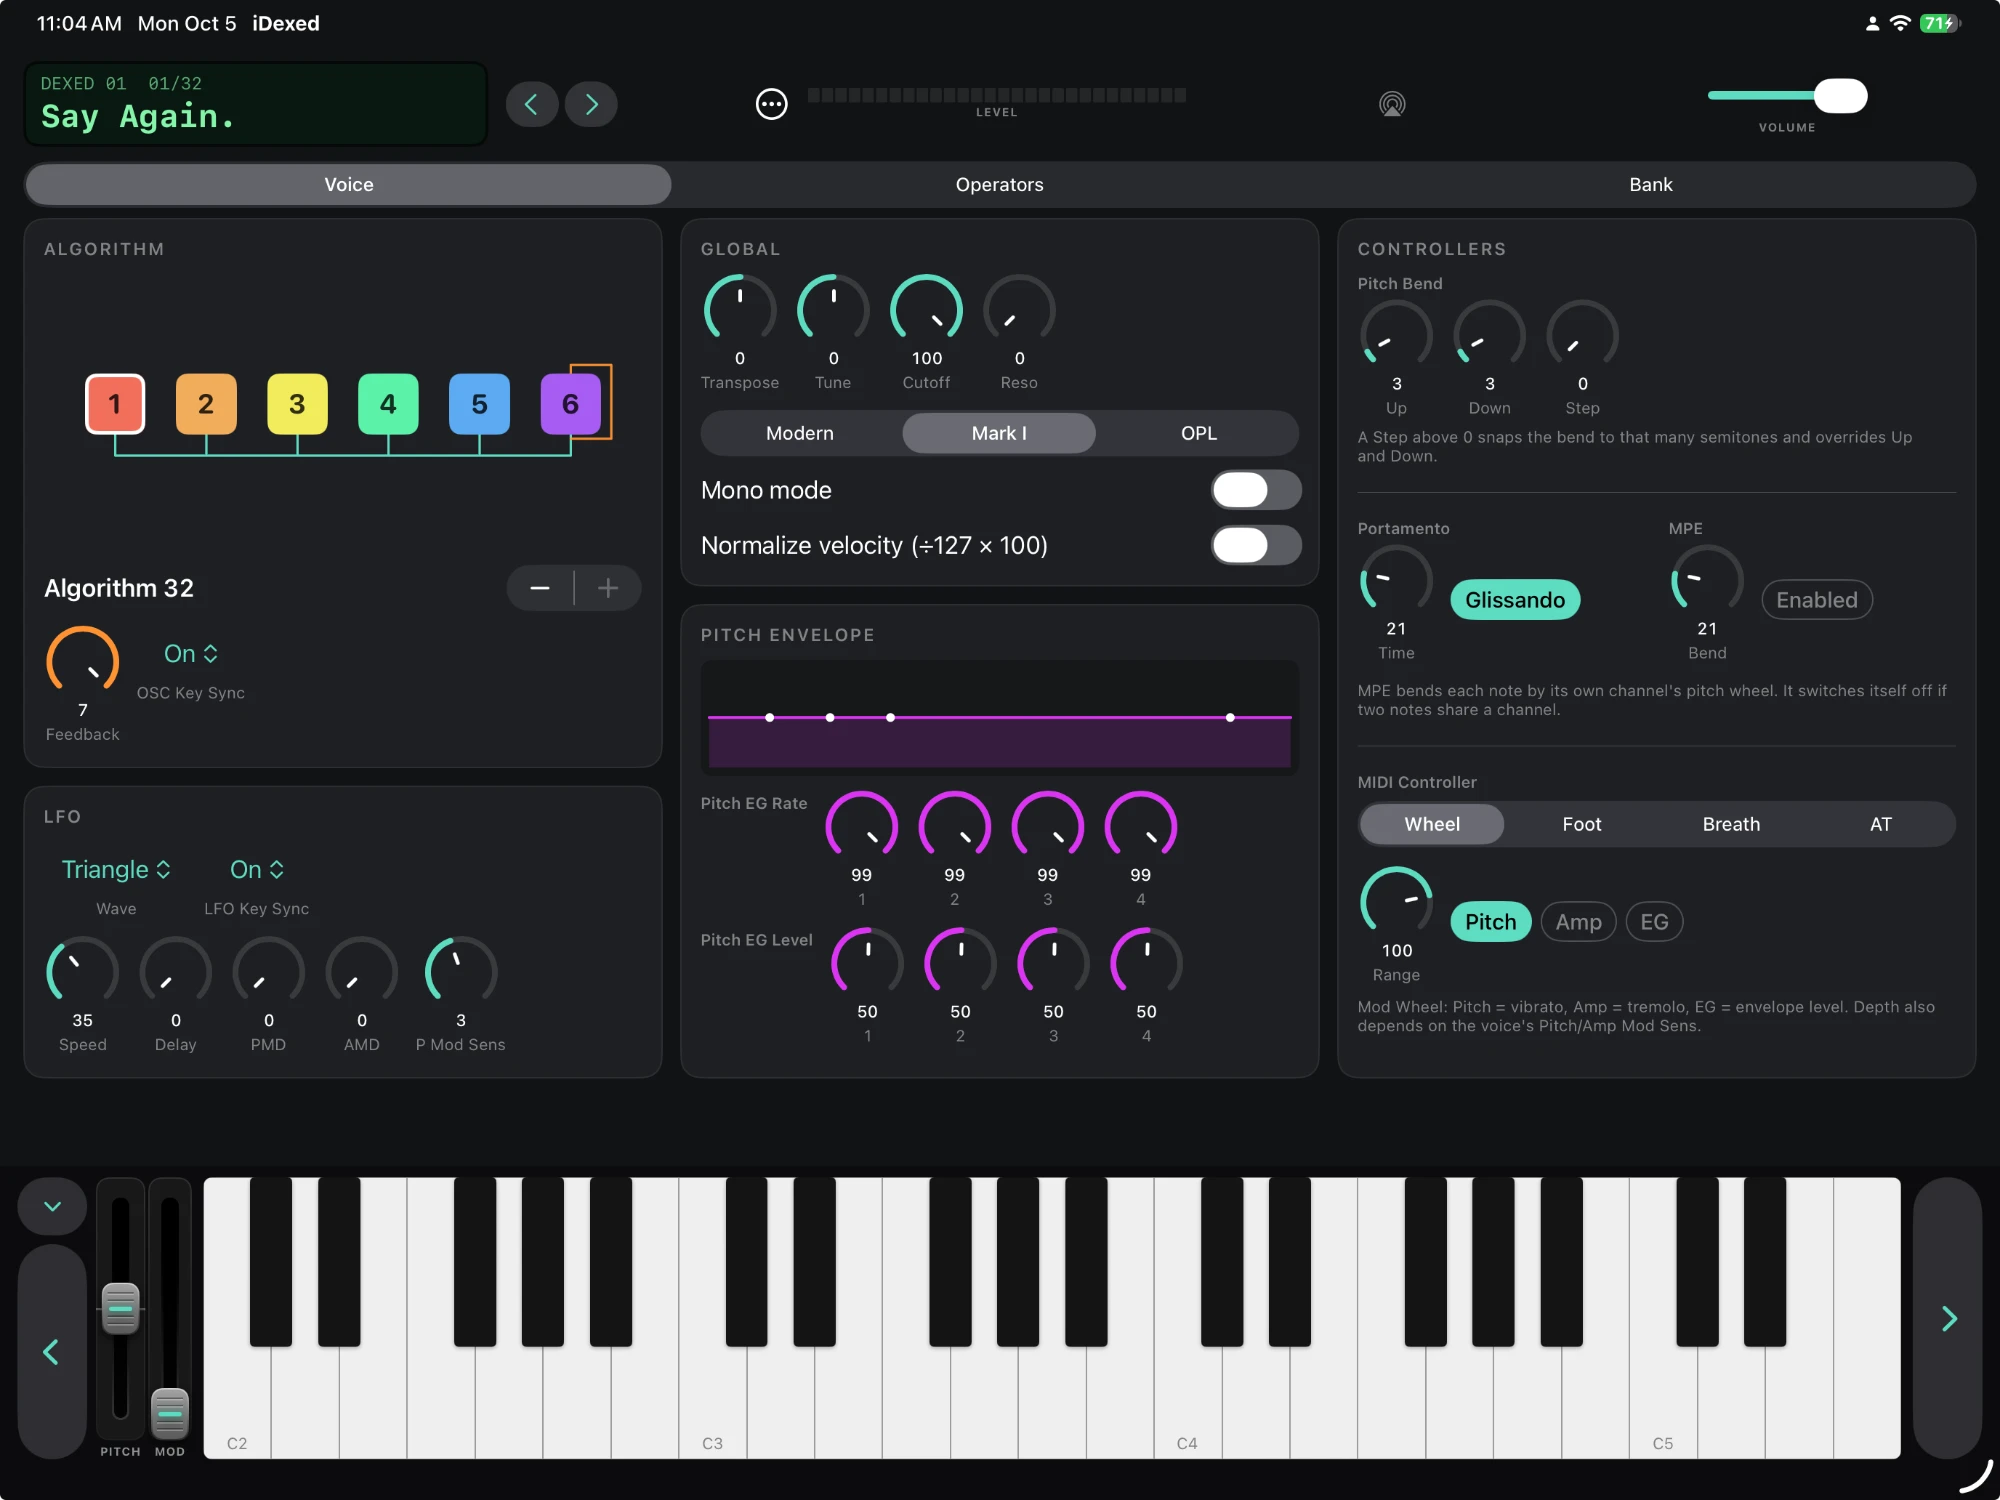
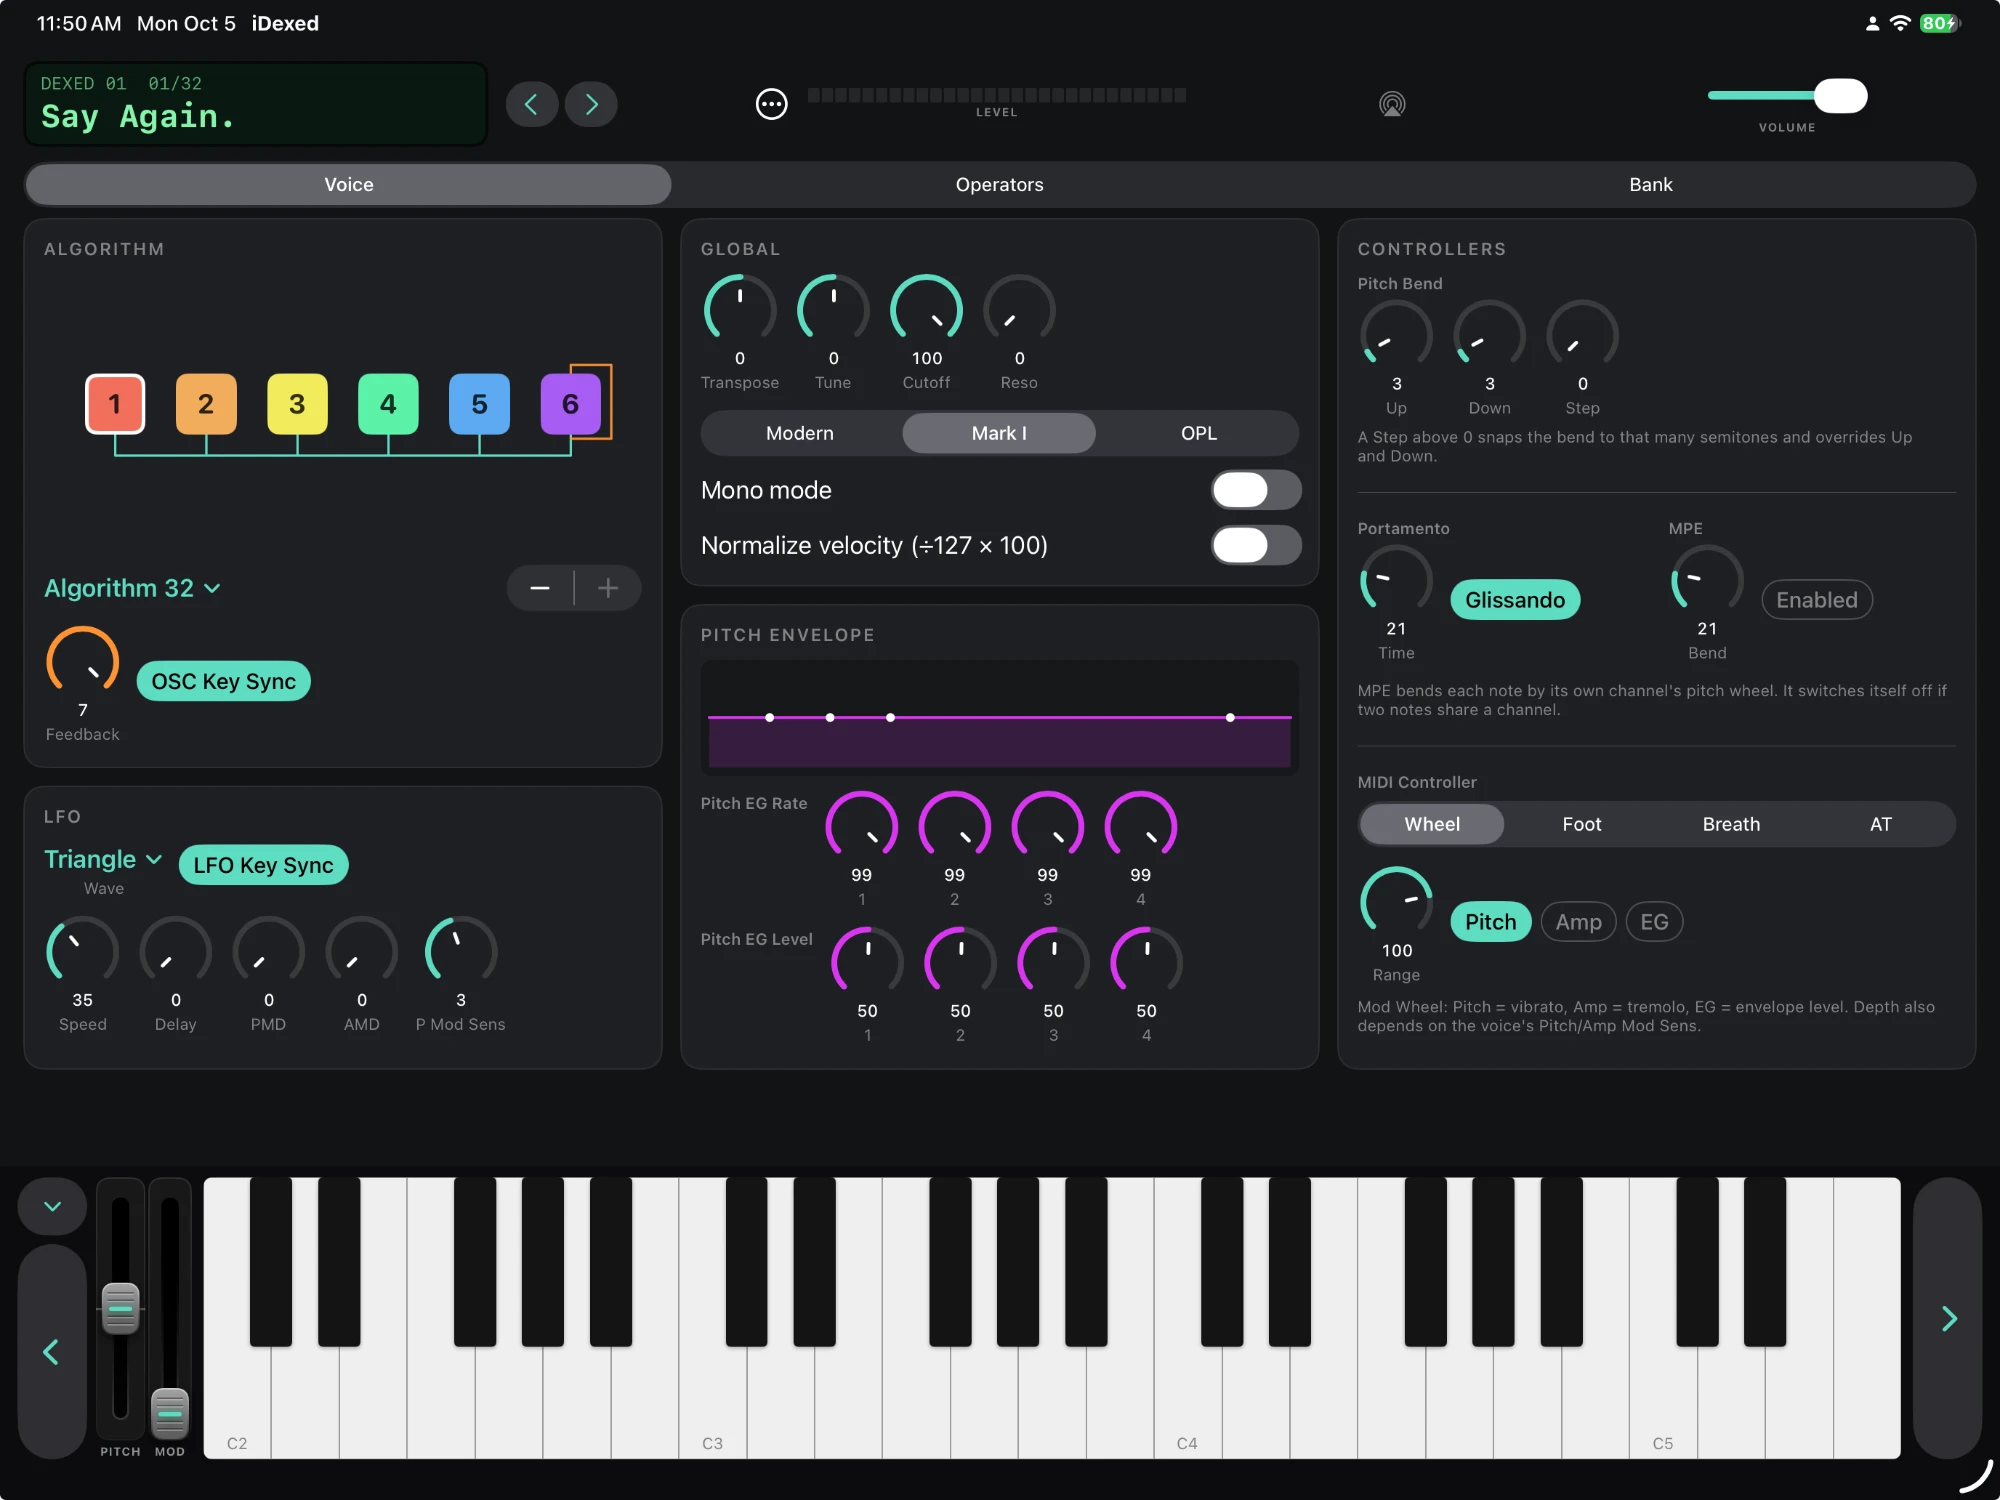
Polish controls: algorithm dropdown, toggle chips for Off/On, chevron dropdowns, taller Mac window
- Algorithm label is a dropdown listing all 32, alongside the stepper
- Off/On parameters (OSC/LFO key sync) are toggle chips
- Named-choice dropdowns and the Library bank picker share a chevron style
- Mac speaker icon sits beside the volume slider
- Mac window opens tall enough for three columns without scrolling
- Update README Voice screenshot

diff --git a/Shared/Components/ParamControls.swift b/Shared/Components/ParamControls.swift
@@ -7,19 +7,37 @@ struct ParamControl: View {
     let info: ParameterInfo
     var tint: Color = Theme.accent
     var title: String?
+    /// Space above an on/off chip so it lines up with the dials in the same row.
+    var switchInset: CGFloat = 22
 
     private var binding: Binding<Int> {
         Binding(get: { engine.patch[info.offset] }, set: { engine.setParameter(info.offset, $0) })
     }
 
+    private var isOnOff: Bool { info.max == 1 && info.labels == ["Off", "On"] }
+
     var body: some View {
-        if let labels = info.labels, info.max <= 5 {
+        if isOnOff {
+            Toggle(title ?? info.name, isOn: Binding(get: { binding.wrappedValue == 1 }, set: { binding.wrappedValue = $0 ? 1 : 0 }))
+                .toggleStyle(SwitchChipStyle())
+                .padding(.top, switchInset)
+        } else if let labels = info.labels, info.max <= 5 {
             VStack(spacing: 3) {
-                Picker(title ?? info.name, selection: binding) {
-                    ForEach(labels.indices, id: \.self) { Text(labels[$0]).tag($0) }
+                Menu {
+                    Picker(title ?? info.name, selection: binding) {
+                        ForEach(labels.indices, id: \.self) { Text(labels[$0]).tag($0) }
+                    }
+                    .pickerStyle(.inline)
+                } label: {
+                    // Same look as the Algorithm selector: the value, then a chevron that marks it as a dropdown.
+                    HStack(spacing: 5) {
+                        Text(labels[min(max(binding.wrappedValue, 0), labels.count - 1)])
+                            .font(.body.weight(.semibold))
+                        Image(systemName: "chevron.down").font(.caption.weight(.bold))
+                    }
                 }
-                .labelsHidden()
-                .pickerStyle(.menu)
+                .menuIndicator(.hidden)
+                .fixedSize()
                 .tint(tint)
                 Text(title ?? info.name).font(.caption2).foregroundStyle(Theme.dim)
             }
@@ -40,5 +58,21 @@ struct ParamRow<Content: View>: View {
                 .padding(.vertical, 2)
         }
         .scrollBounceBehavior(.basedOnSize, axes: .horizontal)
+    }
+}
+
+/// An always-visible capsule that fills with the accent colour when on, so its state is obvious at a glance.
+struct SwitchChipStyle: ToggleStyle {
+    func makeBody(configuration: Configuration) -> some View {
+        Button { configuration.isOn.toggle() } label: {
+            configuration.label
+                .font(.subheadline.weight(.medium))
+                .padding(.horizontal, 10).padding(.vertical, 5)
+                .foregroundStyle(configuration.isOn ? Color.black : Theme.dim)
+                .background(Capsule().fill(configuration.isOn ? Color.accentColor : Color.clear))
+                .overlay(Capsule().strokeBorder(configuration.isOn ? Color.clear : Theme.dim.opacity(0.5), lineWidth: 1))
+        }
+        .buttonStyle(.plain)
+        .accessibilityAddTraits(configuration.isOn ? .isSelected : [])
     }
 }

diff --git a/Shared/Views/VoiceView.swift b/Shared/Views/VoiceView.swift
@@ -28,10 +28,25 @@ struct VoiceView: View {
                           enabled: engine.operatorEnabled, selected: $selectedOperator)
                 .frame(height: 190)
             HStack {
-                Stepper(value: algorithmBinding, in: 0...31) {
-                    Text("Algorithm \(engine.patch.algorithm + 1)")
-                        .font(.body.monospacedDigit().weight(.semibold))
+                // Jump straight to any of the 32 algorithms from the menu; the stepper nudges by one.
+                Menu {
+                    Picker("Algorithm", selection: algorithmBinding) {
+                        ForEach(0..<32, id: \.self) { Text("Algorithm \($0 + 1)").tag($0) }
+                    }
+                    .pickerStyle(.inline)
+                } label: {
+                    HStack(spacing: 5) {
+                        Text("Algorithm \(engine.patch.algorithm + 1)")
+                            .font(.body.monospacedDigit().weight(.semibold))
+                        Image(systemName: "chevron.down")
+                            .font(.caption.weight(.bold))
+                    }
                 }
+                .menuIndicator(.hidden)          // our own chevron, so it looks the same on every platform
+                .fixedSize()
+                Spacer(minLength: 0)
+                Stepper("Algorithm", value: algorithmBinding, in: 0...31)
+                    .labelsHidden()
             }
             ParamRow {
                 ParamControl(info: Parameters.feedback, tint: .orange)
@@ -62,7 +77,7 @@ struct VoiceView: View {
         Panel(title: "LFO") {
             ParamRow {
                 ParamControl(info: Parameters.lfoWave)
-                ParamControl(info: Parameters.lfoSync)
+                ParamControl(info: Parameters.lfoSync, switchInset: 0)
             }
             ParamRow {
                 ParamControl(info: Parameters.lfoSpeed)
@@ -177,18 +192,3 @@ struct VoiceView: View {
     }
 }
 
-/// An always-visible capsule that fills with the accent colour when on, so its state is obvious at a glance.
-private struct SwitchChipStyle: ToggleStyle {
-    func makeBody(configuration: Configuration) -> some View {
-        Button { configuration.isOn.toggle() } label: {
-            configuration.label
-                .font(.subheadline.weight(.medium))
-                .padding(.horizontal, 10).padding(.vertical, 5)
-                .foregroundStyle(configuration.isOn ? Color.black : Theme.dim)
-                .background(Capsule().fill(configuration.isOn ? Color.accentColor : Color.clear))
-                .overlay(Capsule().strokeBorder(configuration.isOn ? Color.clear : Theme.dim.opacity(0.5), lineWidth: 1))
-        }
-        .buttonStyle(.plain)
-        .accessibilityAddTraits(configuration.isOn ? .isSelected : [])
-    }
-}

diff --git a/Shared/Views/LibraryPanel.swift b/Shared/Views/LibraryPanel.swift
@@ -40,21 +40,32 @@ struct LibraryPanel: View {
     }
 
     private var bankPicker: some View {
-        Picker("Bank", selection: Binding(get: { library.selected }, set: { library.select($0) })) {
-            Text("Choose a bank…").tag(BankLibrary.Entry?.none)
-            Section("Factory Banks") {
-                ForEach(library.factory) { Text($0.name).tag(BankLibrary.Entry?.some($0)) }
-            }
-            if !library.user.isEmpty {
-                Section(library.folderName ?? "My Banks") {
-                    ForEach(library.user) { entry in
-                        Text(entry.folder.isEmpty ? entry.name : "\(entry.folder) / \(entry.name)").tag(BankLibrary.Entry?.some(entry))
+        Menu {
+            Picker("Bank", selection: Binding(get: { library.selected }, set: { library.select($0) })) {
+                Text("Choose a bank…").tag(BankLibrary.Entry?.none)
+                Section("Factory Banks") {
+                    ForEach(library.factory) { Text($0.name).tag(BankLibrary.Entry?.some($0)) }
+                }
+                if !library.user.isEmpty {
+                    Section(library.folderName ?? "My Banks") {
+                        ForEach(library.user) { entry in
+                            Text(entry.folder.isEmpty ? entry.name : "\(entry.folder) / \(entry.name)").tag(BankLibrary.Entry?.some(entry))
+                        }
                     }
                 }
             }
+            .pickerStyle(.inline)
+        } label: {
+            // Same look as the other dropdowns: the value, then a chevron.
+            HStack(spacing: 5) {
+                Text(library.selected?.name ?? "Choose a bank…")
+                    .font(.body.weight(.semibold))
+                    .lineLimit(1)
+                Image(systemName: "chevron.down").font(.caption.weight(.bold))
+            }
         }
-        .pickerStyle(.menu)
-        .labelsHidden()
+        .menuIndicator(.hidden)
+        .fixedSize()
         .frame(maxWidth: .infinity, alignment: .leading)
         .accessibilityLabel("Bank to browse")
     }

diff --git a/Shared/ContentView.swift b/Shared/ContentView.swift
@@ -329,15 +329,18 @@ private struct HeaderView: View {
             if !engine.isHostedPlugin {
                 RoutePickerButton().frame(width: 30, height: 30).accessibilityLabel("Audio output")
             }
-            #else
-            Image(systemName: "speaker.fill").foregroundStyle(Theme.dim)
             #endif
         }
         captioned("VOLUME") {
-            Slider(value: volume, in: 0...1)
-                .frame(minWidth: tight ? 60 : 90, maxWidth: tight ? 120 : compact ? .infinity : 110)
-                .accessibilityLabel("Volume")
-                .midiMappable(.volume)
+            HStack(spacing: 6) {
+                #if os(macOS)
+                Image(systemName: "speaker.fill").foregroundStyle(Theme.dim)      // sits right beside the slider it labels
+                #endif
+                Slider(value: volume, in: 0...1)
+                    .frame(minWidth: tight ? 60 : 90, maxWidth: tight ? 120 : compact ? .infinity : 110)
+                    .accessibilityLabel("Volume")
+                    .midiMappable(.volume)
+            }
         }
     }
 

diff --git a/iDexed/iDexedApp.swift b/iDexed/iDexedApp.swift
@@ -25,7 +25,7 @@ struct iDexedApp: App {
             #endif
         }
         #if os(macOS)
-        .defaultSize(width: 1160, height: 920)     // fits all cards in three columns, with the keyboard, without scrolling
+        .defaultSize(width: 1160, height: 980)     // fits all cards in three columns, with the keyboard, without scrolling
         .commands { ShortcutCommands() }
         #endif
     }
